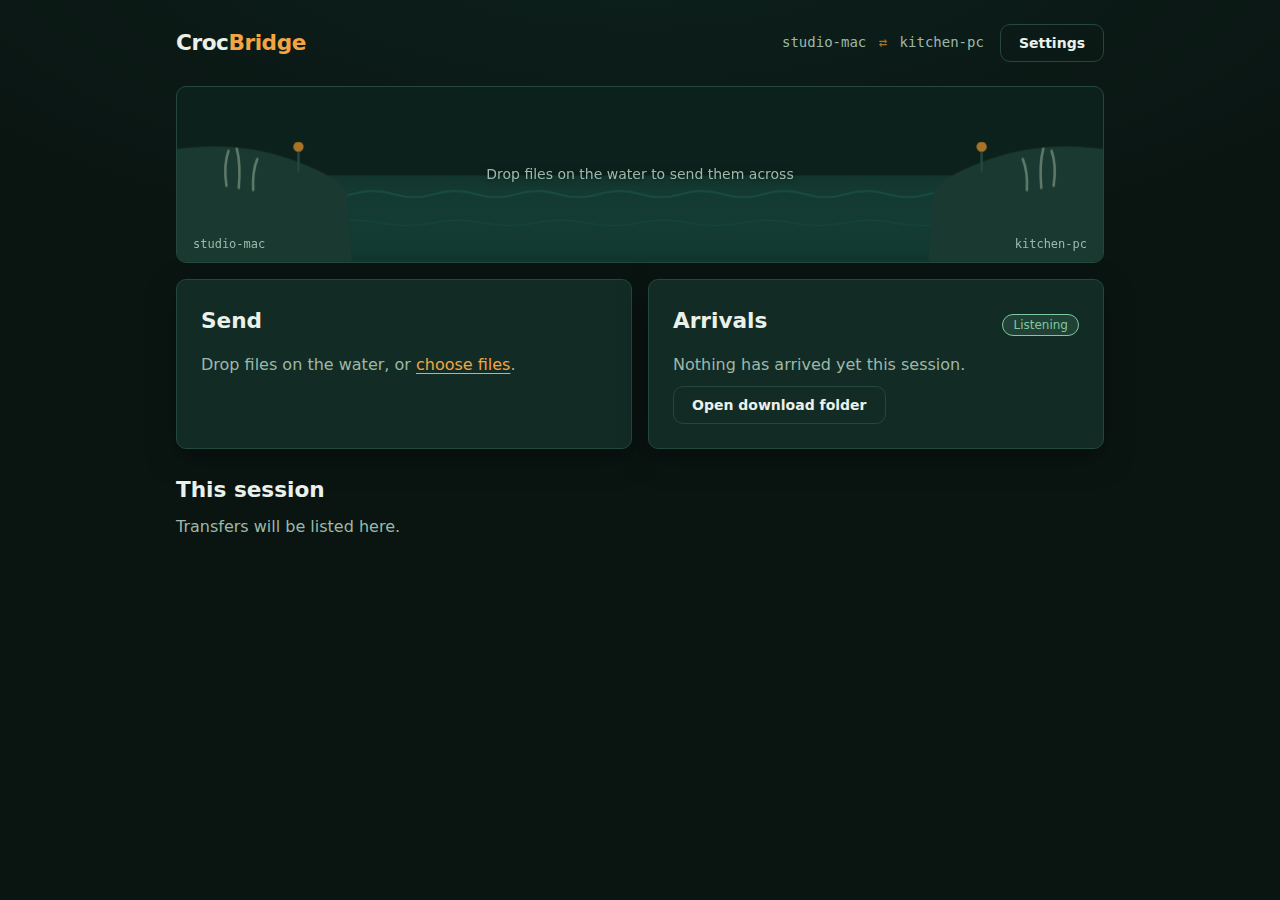
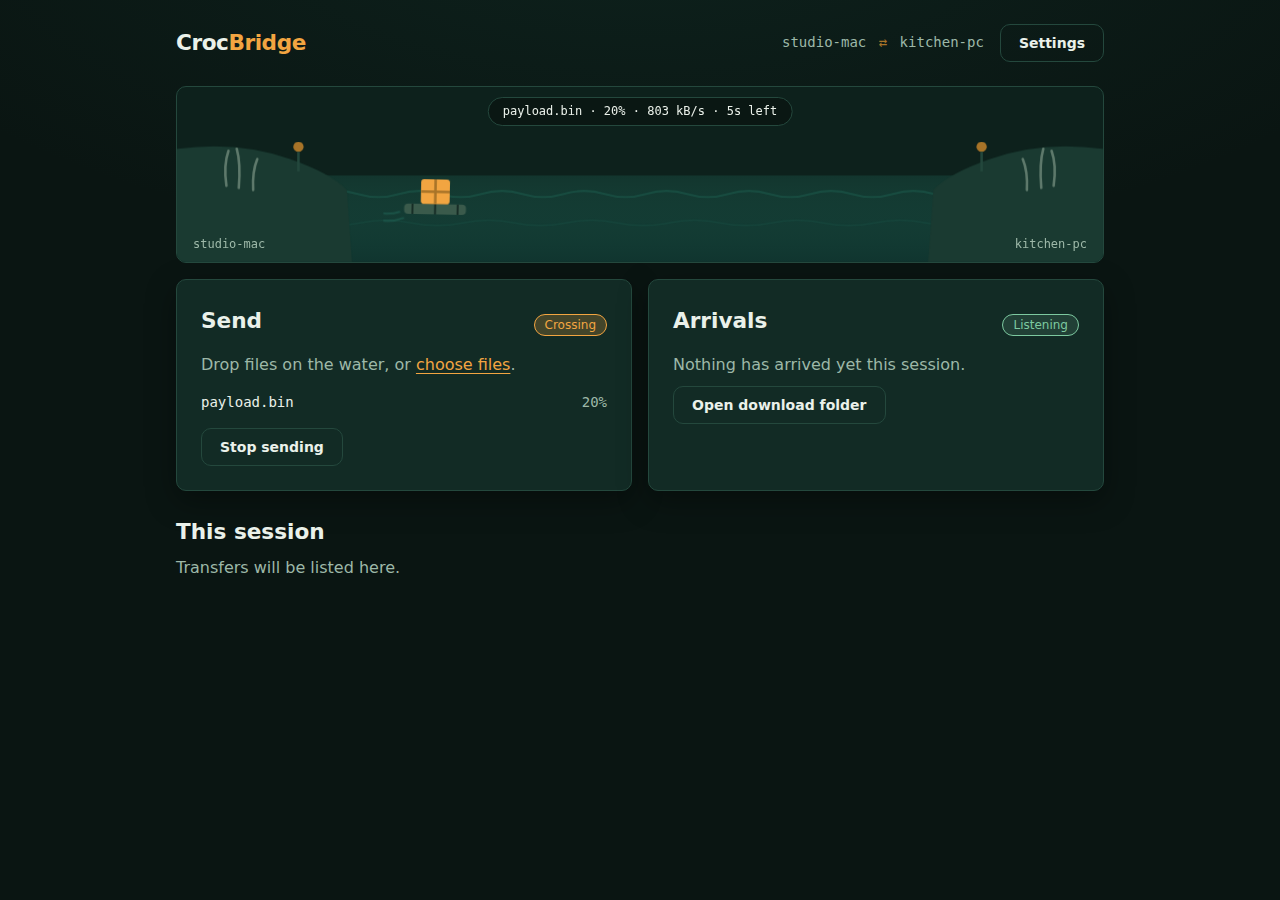
Fix hint staying visible during transfers; use mid-transfer hero screenshot
The river hint's display:grid overrode the hidden attribute, so the idle
copy stayed on screen while the raft was crossing. A global [hidden]
guard fixes it for any styled element.

Claude-Session: https://claude.ai/code/session_012yF1pq1m6x444adQViChTg

diff --git a/crocbridge/static/css/app.css b/crocbridge/static/css/app.css
@@ -2,6 +2,8 @@
 
 * { box-sizing: border-box; }
 
+[hidden] { display: none !important; }
+
 html { color-scheme: dark; }
 
 body {
